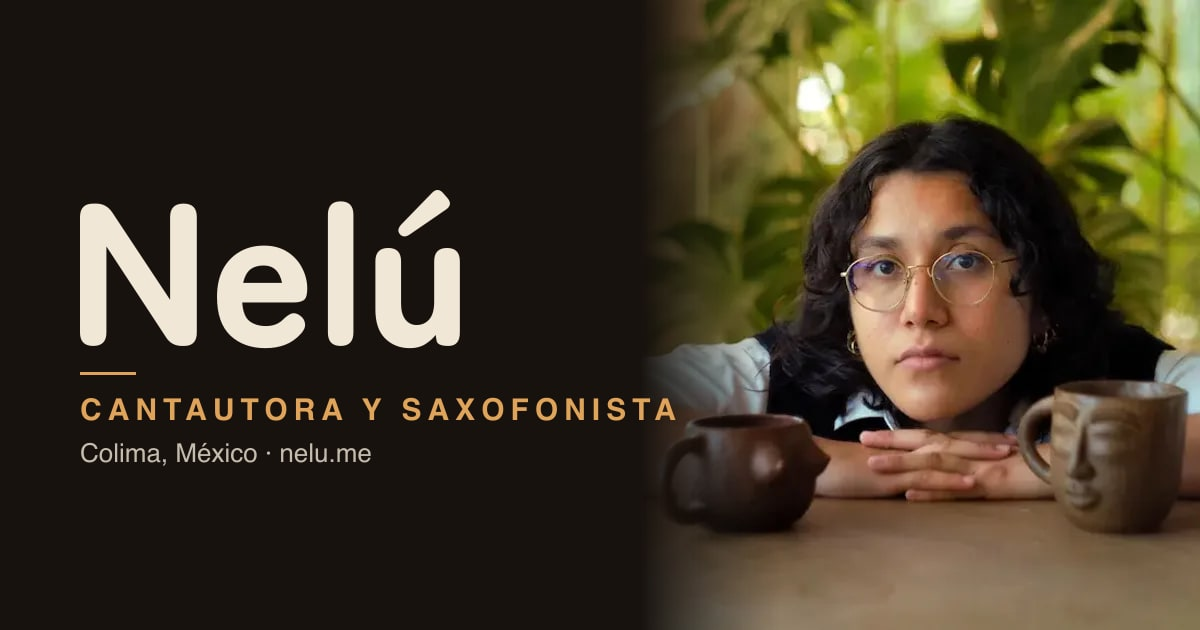
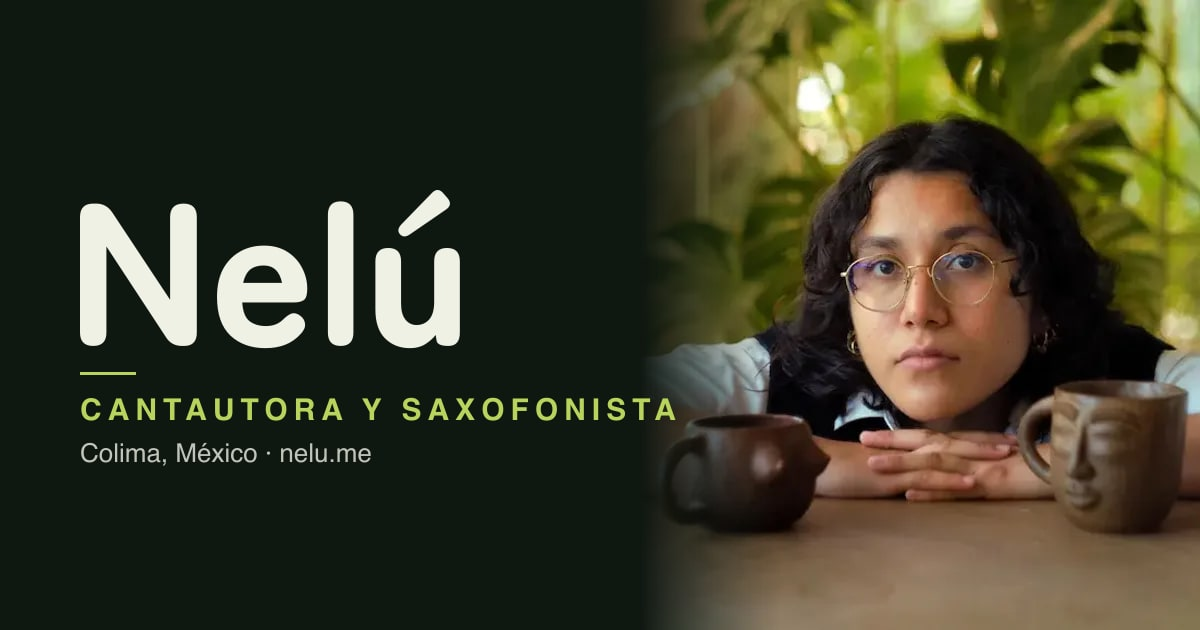
feat(og): card follows the active palette; regenerate in green
- Generator imports the palette from site data and reads its --p-* tokens from global.css
- Tagline, origin and URL also come from site data
- README notes to run pnpm og after switching palettes

Changed region(s): [[0.0617, 0.6333, 0.5858, 0.6635], [0.0617, 0.573, 0.1233, 0.6032]]

diff --git a/README.md b/README.md
@@ -14,7 +14,7 @@ Sitio oficial de **Nelú**, cantautora y saxofonista de Comala, Colima. Construi
 | Videos | `src/data/videos.ts` (IDs de YouTube) |
 | Contacto | Correo e Instagram en `src/data/site.ts` |
 
-La paleta y la tipografía viven en `src/styles/global.css` (bloque `@theme`).
+La paleta activa se elige en `src/data/site.ts` (`palette`); los colores y la tipografía viven en `src/styles/global.css`. Tras cambiar de paleta, regenera la imagen de Open Graph con `pnpm og`.
 
 ## Variables de entorno
 
